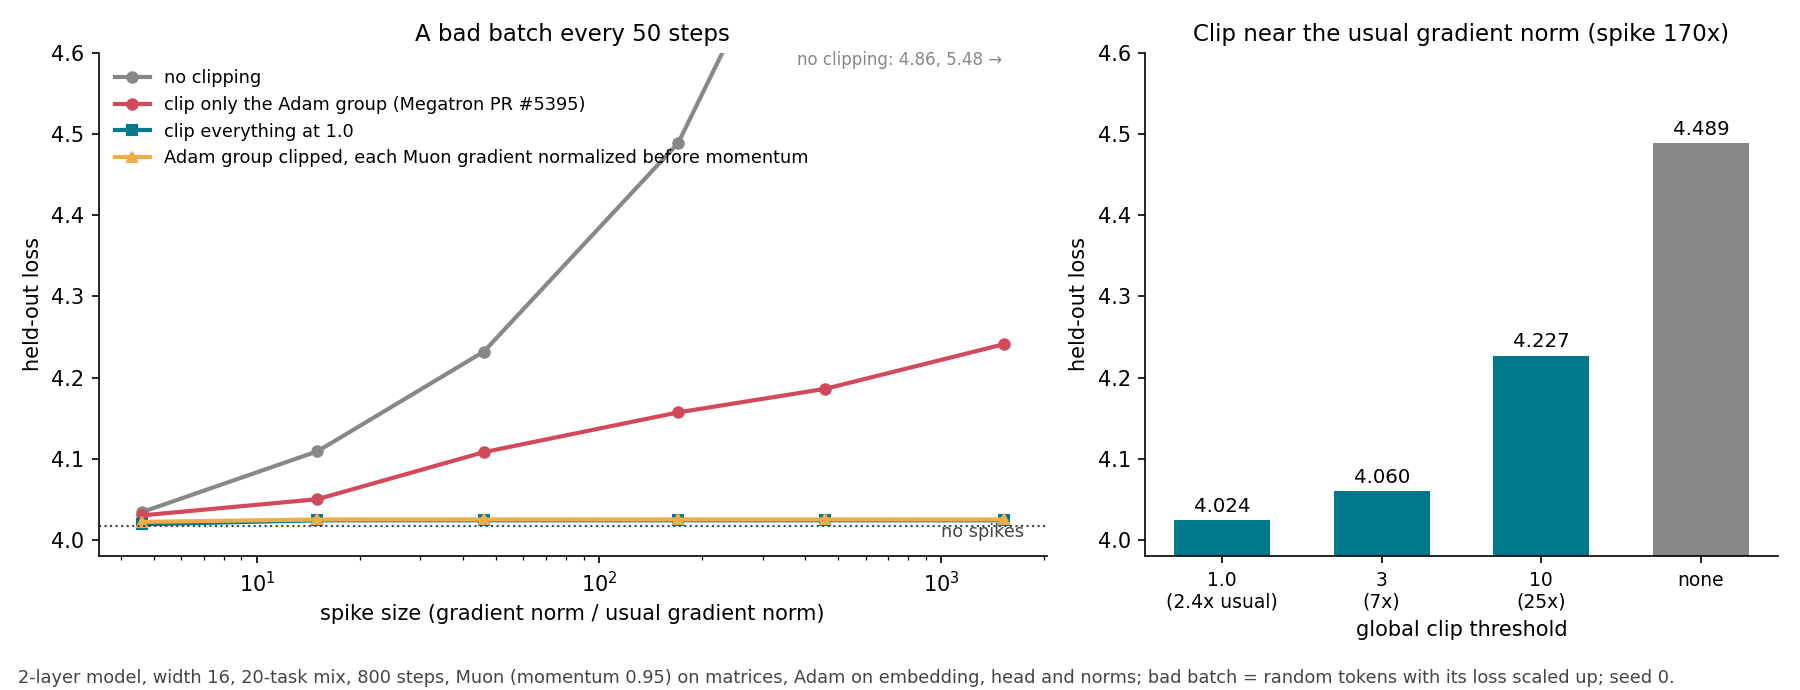
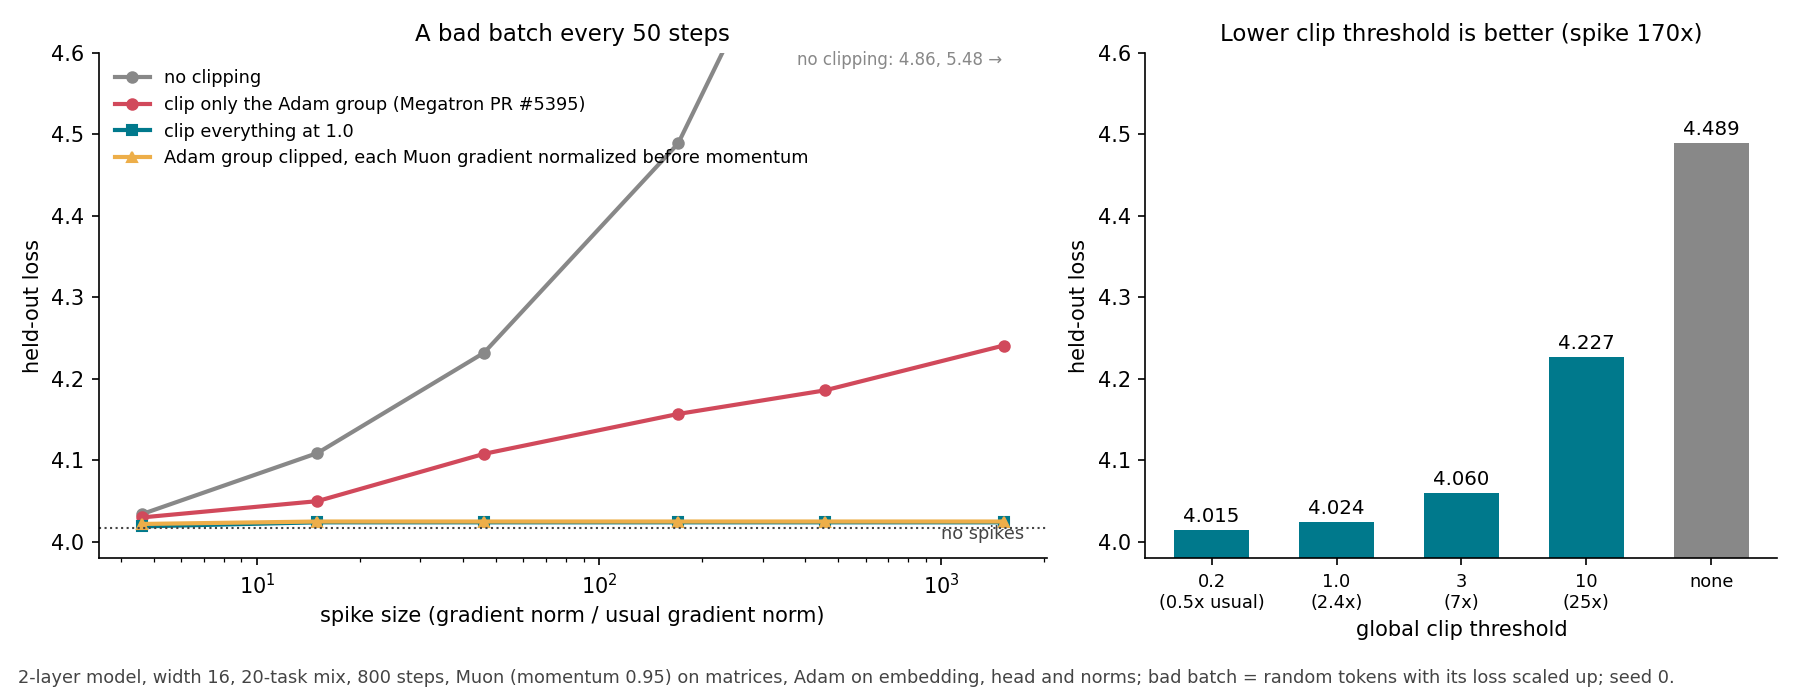
muon-grad-clipping figure: add threshold 0.2

diff --git a/experiments/muon-grad-spikes/figure.py b/experiments/muon-grad-spikes/figure.py
@@ -11,11 +11,11 @@ a.axhline(4.017, color="#444", ls=":", lw=1); a.text(1000, 4.003, "no spikes", f
 a.set_xscale("log"); a.set_ylim(3.98, 4.6); a.set_xlabel("spike size (gradient norm / usual gradient norm)"); a.set_ylabel("held-out loss")
 a.set_title("A bad batch every 50 steps", fontsize=11); a.legend(frameon=False, fontsize=8.5, loc="upper left")
 a.text(1500, 4.585, "no clipping: 4.86, 5.48 →", ha="right", fontsize=8, color="#888888")
-th = ["1.0\n(2.4x usual)", "3\n(7x)", "10\n(25x)", "none"]; v = [4.024, 4.060, 4.227, 4.489]
-b.bar(range(4), [t - 3.98 for t in v], bottom=3.98, color=["#00798c", "#00798c", "#00798c", "#888888"], width=.6)
+th = ["0.2\n(0.5x usual)", "1.0\n(2.4x)", "3\n(7x)", "10\n(25x)", "none"]; v = [4.015, 4.024, 4.060, 4.227, 4.489]
+b.bar(range(5), [t - 3.98 for t in v], bottom=3.98, color=["#00798c"] * 4 + ["#888888"], width=.6)
 for i, t in enumerate(v): b.text(i, t + .01, f"{t:.3f}", ha="center", fontsize=9.5)
-b.set_xticks(range(4), th, fontsize=9); b.set_ylim(3.98, 4.6); b.set_ylabel("held-out loss"); b.set_xlabel("global clip threshold")
-b.set_title("Clip near the usual gradient norm (spike 170x)", fontsize=11)
+b.set_xticks(range(5), th, fontsize=8.5); b.set_ylim(3.98, 4.6); b.set_ylabel("held-out loss"); b.set_xlabel("global clip threshold")
+b.set_title("Lower clip threshold is better (spike 170x)", fontsize=11)
 for ax in (a, b): ax.spines[["top", "right"]].set_visible(False)
 fig.text(.01, .01, "2-layer model, width 16, 20-task mix, 800 steps, Muon (momentum 0.95) on matrices, Adam on embedding, head and norms; bad batch = random tokens with its loss scaled up; seed 0.", fontsize=8.5, color="#444")
 fig.tight_layout(rect=(0, .04, 1, 1)); fig.savefig("../../figures/muon-grad-clipping.png"); print("ok")
